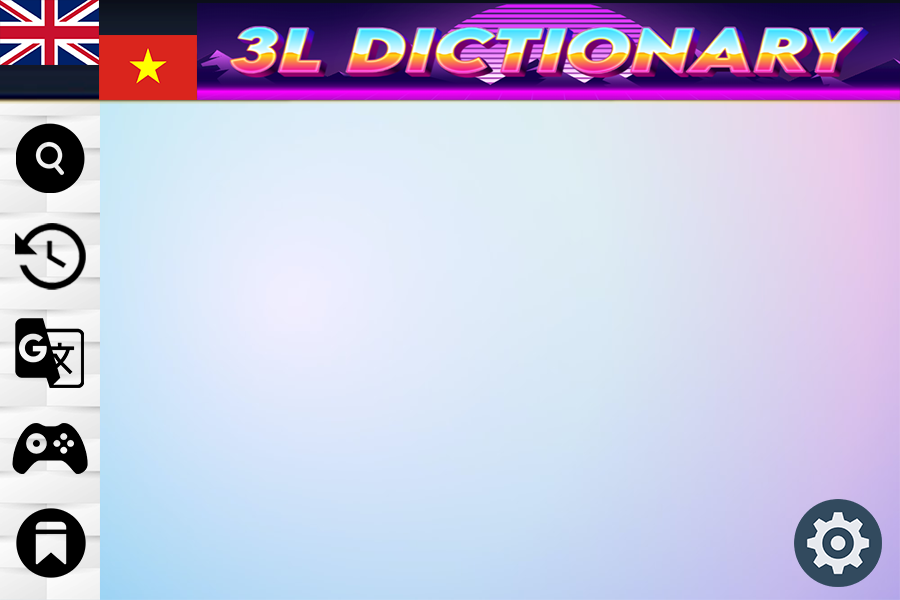
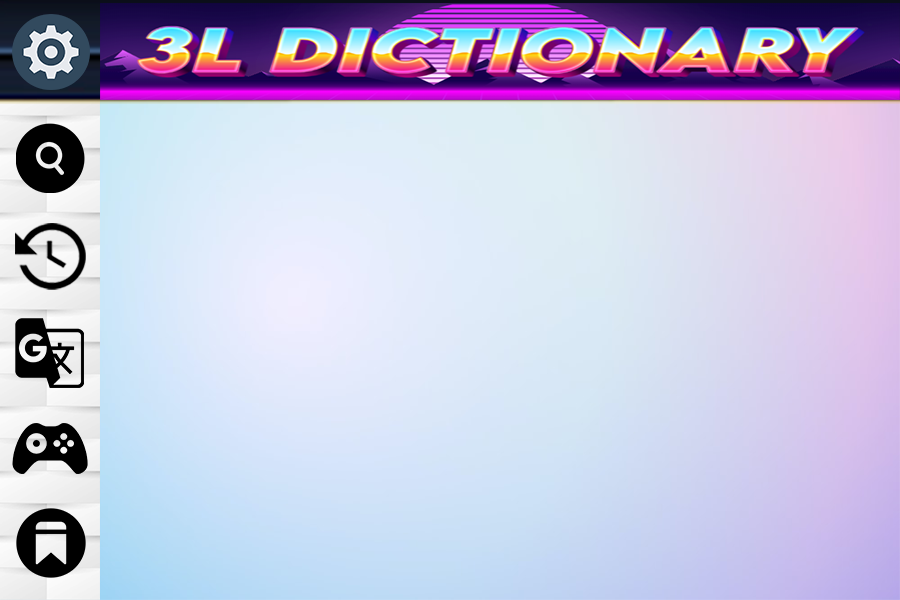
Commit

Changed region(s): [[0.0, 0.0, 0.9644, 0.18], [0.8711, 0.81, 0.9956, 0.99]]

diff --git a/src/main/java/com/example/btl1_dictionary/Google_Controller.java b/src/main/java/com/example/btl1_dictionary/Google_Controller.java
@@ -14,11 +14,10 @@ import javafx.scene.layout.VBox;
 import javafx.stage.Stage;
 
 import java.io.BufferedReader;
+import java.io.IOException;
 import java.io.InputStreamReader;
-import java.net.HttpURLConnection;
-import java.net.URI;
-import java.net.URL;
-import java.net.URLEncoder;
+import java.net.*;
+import java.nio.charset.StandardCharsets;
 
 public class Google_Controller {
 
@@ -53,65 +52,70 @@ public class Google_Controller {
     private final Image Search_Image = new Image(getClass().getResource("/com/example/btl1_dictionary/Image/Search_button.png").toExternalForm());
 
     @FXML
+    private ImageView langFrom;
+
+    @FXML
+    private final Image Vie = new Image(getClass().getResource("/com/example/btl1_dictionary/Image/Vietnam_Button.png").toExternalForm());
+
+    @FXML
+    private ImageView langTo;
+
+    @FXML
+    private final Image Eng = new Image(getClass().getResource("/com/example/btl1_dictionary/Image/English_Button.png").toExternalForm());
+
+    @FXML
     private TextArea input;
 
     @FXML
     private TextArea output;
 
     @FXML
-    private Button translate_icon;
+    private ImageView Switch_Button;
 
-    public static <ObjectMapper> String ConnecttoGGAPI(String input) {
-        String ans ="";
-        try {
-            // Xác định URL
-            if (input.isEmpty()) return "";
-            String quencode = URLEncoder.encode(input, "UTF-8");
-            String apiUrl = "https://translate.googleapis.com/translate_a/single?client=gtx&sl=en&tl=vi&dt=t&q=";
-            apiUrl += quencode;
-            // Tạo URL object
-            URI uri = new URI(apiUrl);
-            URL url = uri.toURL();
-            // Tạo kết nối HTTP
-            HttpURLConnection connection = (HttpURLConnection) url.openConnection();
-            connection.setRequestMethod("GET");
-            // Đọc phản hồi từ API
-            BufferedReader reader = new BufferedReader(new InputStreamReader(connection.getInputStream()));
-            String line;
-            StringBuilder responseContent = new StringBuilder();
+    @FXML
+    private Button Translate_Button;
 
-            while ((line = reader.readLine()) != null) {
-                responseContent.append(line);
-                responseContent.append("\n");
-            }
-            reader.close();
-            String result = responseContent.toString();
+    private boolean checked = true;
 
+    private static String ConnectToGGAPI( String input, String langFrom, String langTo) throws IOException, IOException {
+        String urlSource = "https://script.google.com/macros/s/AKfycby3AOWmhe32TgV9nW-Q0TyGOEyCHQeFiIn7hRgy5m8jHPaXDl2GdToyW_3Ys5MTbK6wjg/exec"
+                        + "?q=" + URLEncoder.encode(input, "UTF-8")
+                        + "&target=" + langTo
+                        + "&source=" + langFrom;
+        URL url = new URL(urlSource);
 
-            int  i = 0;
-            while(result.charAt(i) != '"') {
-                i++;
-            }
-            i++;
-            while (result.charAt(i) != '"') {
-                ans += result.charAt(i);
-                i++;
-            }
-
-        } catch (Exception e) {
-            e.printStackTrace();
+        HttpURLConnection connection = (HttpURLConnection) url.openConnection();
+        connection.setRequestMethod("GET");
+        BufferedReader bf = new BufferedReader(new InputStreamReader(connection.getInputStream(), "UTF-8"));
+        StringBuilder res = new StringBuilder();
+        String line;
+        while ((line = bf.readLine()) != null) {
+            res.append(line);
+            res.append("\n");
         }
-
-
-        ans = ans.replace("\\n", "\n");
-        return ans;
+        bf.close();
+        return res.toString();
     }
 
     @FXML
-    void translate(MouseEvent event) {
+    void translate(MouseEvent event) throws IOException {
         String in = input.getText();
-        String res = ConnecttoGGAPI(in);
+        String res = (checked) ? ConnectToGGAPI(in, "en", "vi") : ConnectToGGAPI(in, "vi", "en");
         output.setText(res);
+    }
+
+    @FXML
+    void switchLanguage(MouseEvent event) {
+        if (checked) {
+            checked = false;
+            langFrom.setImage(Vie);
+            langTo.setImage(Eng);
+        }
+        else {
+            checked = true;
+            langFrom.setImage(Eng);
+            langTo.setImage(Vie);
+        }
     }
 
     @FXML
